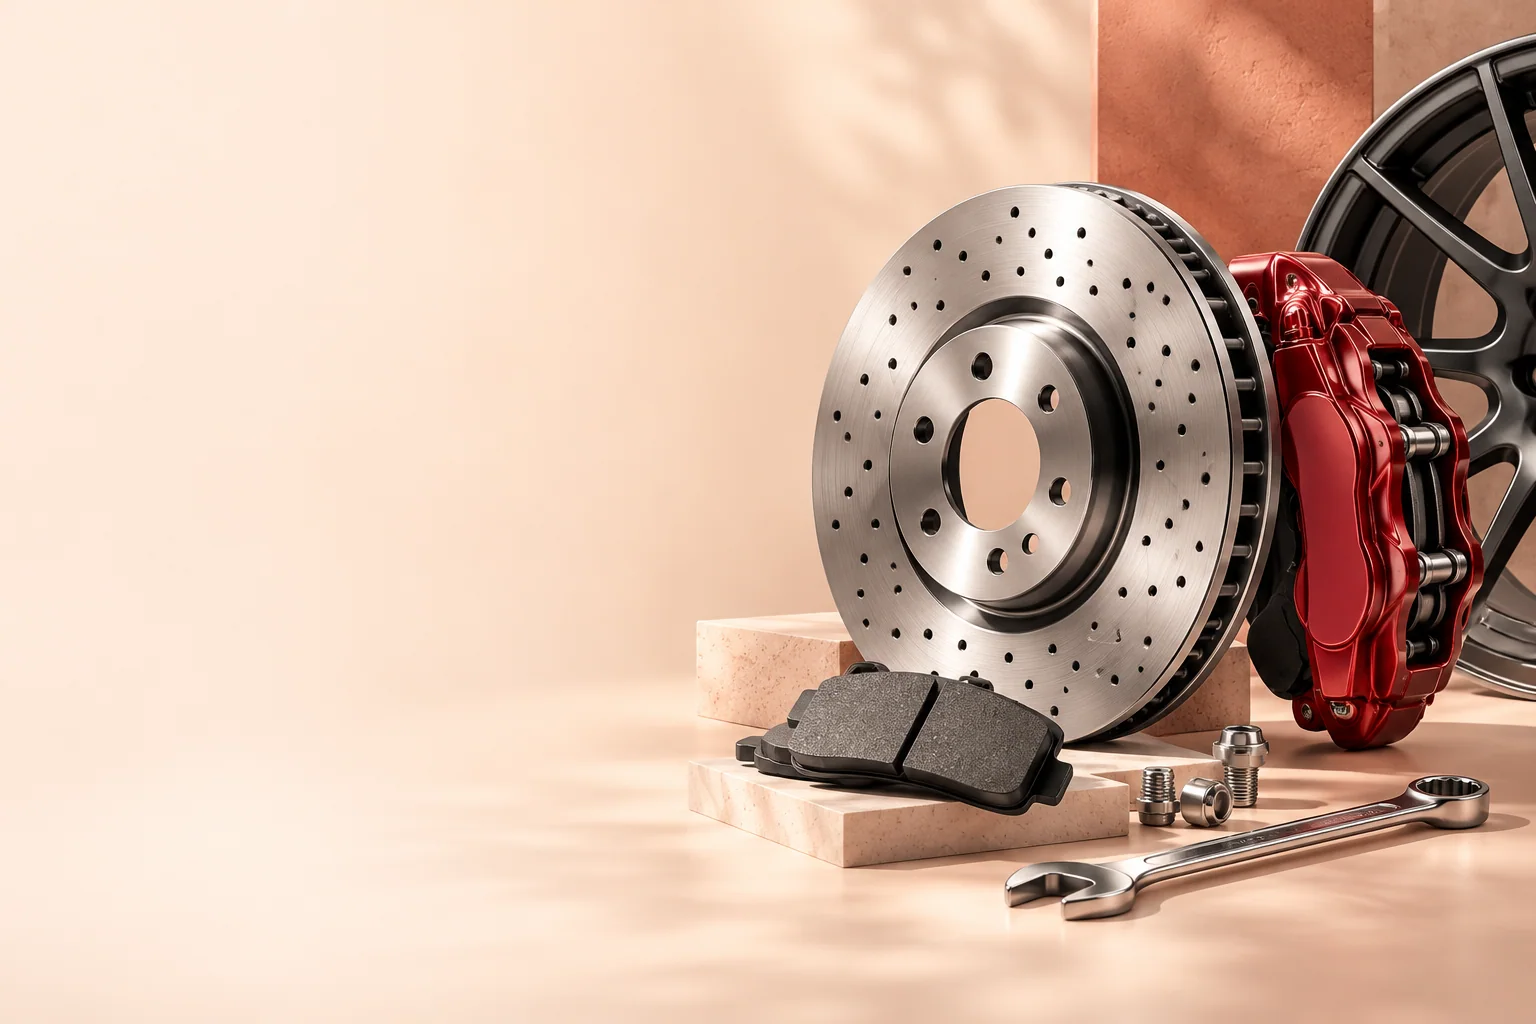
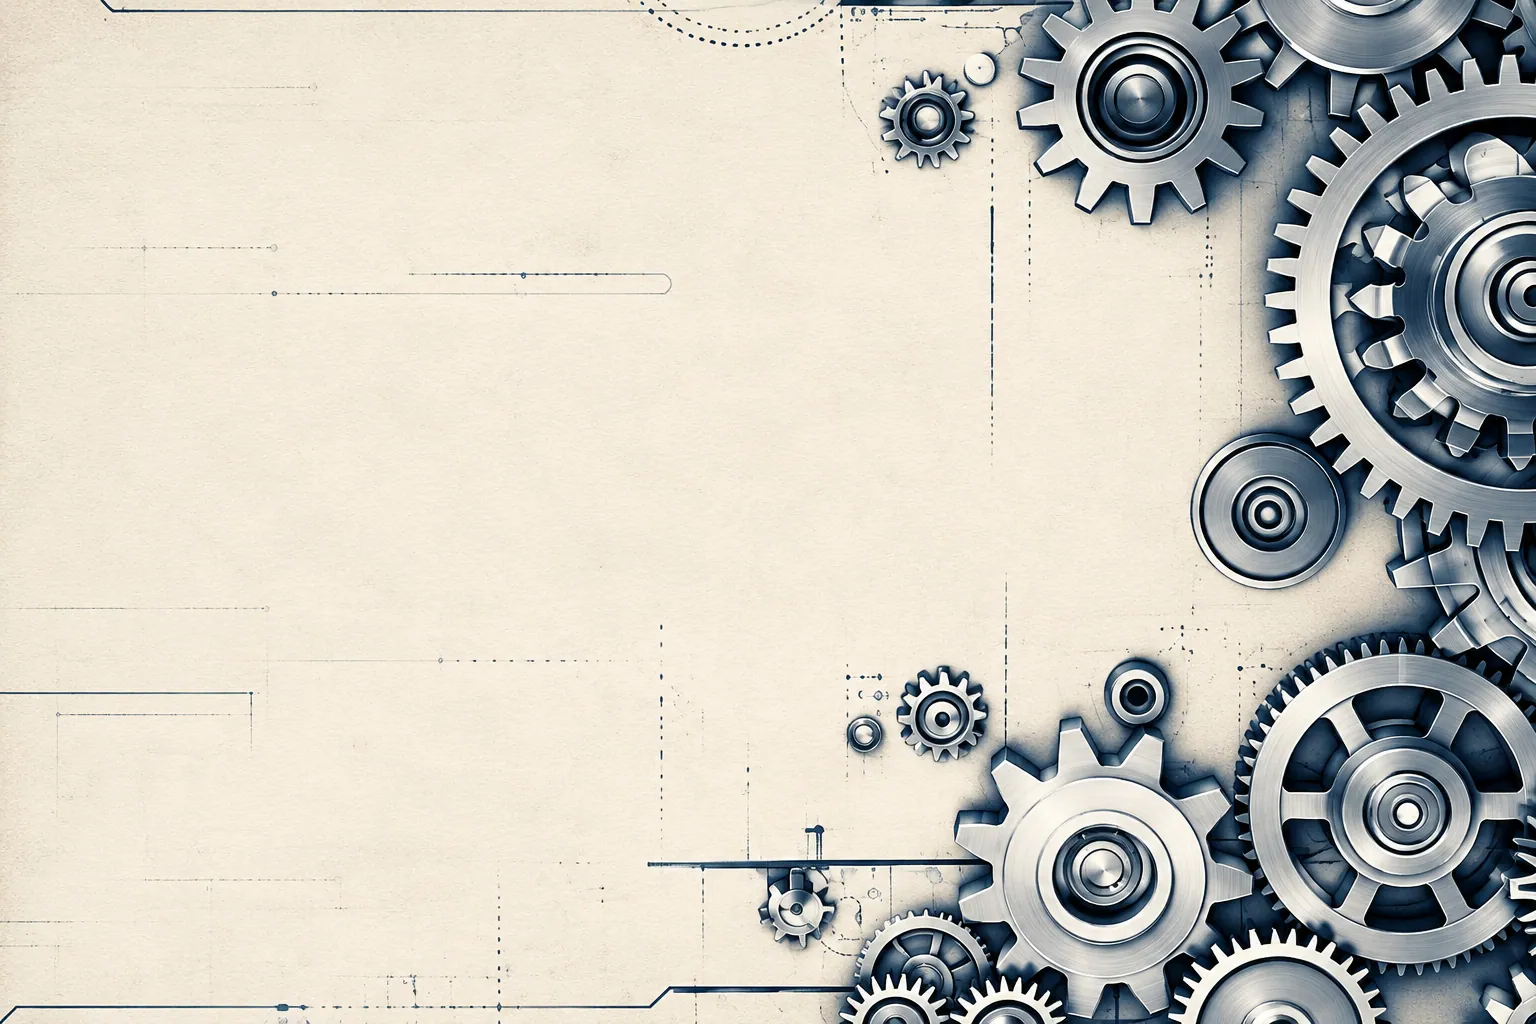
changes in bannerlayout

diff --git a/frontend/src/components/layout/Header.tsx b/frontend/src/components/layout/Header.tsx
@@ -4,12 +4,11 @@ import { HeaderAuthActions } from './HeaderAuthActions';
 import { HeaderCartLink } from './HeaderCartLink';
 
 const navigation = [
-  { label: 'Home', href: '/' },
-  { label: 'Parts List', href: '/parts' },
-  { label: 'Shop', href: '/#products' },
-  { label: 'Categories', href: '/#categories' },
+  { label: 'Shop', href: '/parts' },
   { label: 'Deals', href: '/#deals' },
   { label: 'Contact', href: '/#contact' },
+  { label: 'Order Tracking', href: '/cart' },
+  { label: 'FAQ', href: '/#contact' },
 ];
 
 function LineIcon({ children }: { children: ReactNode }) {
@@ -71,15 +70,10 @@ export function Header() {
         <div className="mx-auto flex h-12 max-w-[1440px] items-center justify-between gap-4 px-4 text-sm font-medium text-neutral-700 sm:px-6 lg:px-8">
           <span className="text-[13px]">Parts for every mile.</span>
           <span className="text-sm font-extrabold text-neutral-950">Free delivery on orders over $150</span>
-          <nav aria-label="Customer links" className="flex items-center gap-4 text-[13px] font-semibold lg:gap-5">
-            <Link href="/#contact" className="transition hover:text-[#a88100]">Contact</Link>
-            <Link href="/cart" className="transition hover:text-[#a88100]">Order Tracking</Link>
-            <Link href="/#contact" className="transition hover:text-[#a88100]">FAQ</Link>
-          </nav>
         </div>
       </div>
 
-      <div className="border-b border-neutral-200 bg-white">
+      <div className="mt-4 mb-4 bg-white">
         <div className="mx-auto flex h-[76px] max-w-[1440px] items-center justify-between gap-3 px-4 sm:px-6 lg:h-[88px] lg:px-8">
           <details className="group relative lg:hidden">
             <summary
@@ -147,7 +141,7 @@ export function Header() {
             </div>
           </details>
 
-          <nav aria-label="Main navigation" className="flex min-w-0 flex-1 items-center justify-center gap-4 overflow-x-auto text-[11px] font-bold uppercase tracking-wide sm:gap-7 lg:gap-9">
+          <nav aria-label="Main navigation" className="flex min-w-0 flex-1 items-center justify-center gap-4 overflow-x-auto text-[11px] font-bold uppercase tracking-wide sm:gap-7 lg:gap-10 2xl:gap-12">
             {navigation.map((item) => (
               <Link key={item.label} href={item.href} className="whitespace-nowrap text-neutral-100 transition hover:text-[#facc15]">
                 {item.label}
@@ -155,9 +149,11 @@ export function Header() {
             ))}
           </nav>
 
-          <Link href="/#contact" className="hidden shrink-0 items-center gap-1.5 pl-5 text-[11px] font-semibold text-neutral-300 xl:flex">
-            Parts support <span className="font-bold text-[#facc15]">Get help</span>
-          </Link>
+          <a href="tel:+18001234567890" className="hidden shrink-0 items-center gap-2.5 border-l border-white/20 pl-7 text-xs font-bold text-neutral-100 transition hover:text-white xl:flex 2xl:ml-3">
+            <span>24/7 Assistance:</span>
+            <span className="text-sm font-black tracking-wide text-[#facc15] 2xl:text-base">(800) 1234 5678 90</span>
+          </a>
+
         </div>
       </div>
     </header>

diff --git a/frontend/src/components/home/HeroArtworkCarousel.tsx b/frontend/src/components/home/HeroArtworkCarousel.tsx
@@ -4,8 +4,9 @@ import { useEffect, useRef, useState, type TransitionEvent } from 'react';
 import Image from 'next/image';
 
 const slides = [
-  { src: '/images/gearup-hero-1.webp', alt: 'Automotive brake and performance parts' },
-  { src: '/images/gearup-hero-2.webp', alt: 'Performance brake rotor and red caliper on a warm studio background' },
+  { src: '/images/gearup-hero-1.webp', alt: 'Top view of a black and white racing car' },
+  { src: '/images/gearup-hero-2.webp', alt: 'Mechanical gears and engineering details' },
+  { src: '/images/gearup-hero-3.webp', alt: 'Sports car in a modern architectural setting' },
 ];
 
 const carouselSlides = [
@@ -88,6 +89,7 @@ export function HeroArtworkCarousel() {
                 fill
                 priority={index === 1}
                 sizes="100vw"
+                quality={80}
                 className="object-cover object-center grayscale"
               />
             </div>

diff --git a/frontend/next.config.ts b/frontend/next.config.ts
@@ -2,6 +2,9 @@ import type { NextConfig } from 'next';
 
 const nextConfig: NextConfig = {
   reactStrictMode: true,
+  images: {
+    formats: ['image/avif', 'image/webp'],
+  },
 };
 
 export default nextConfig;
